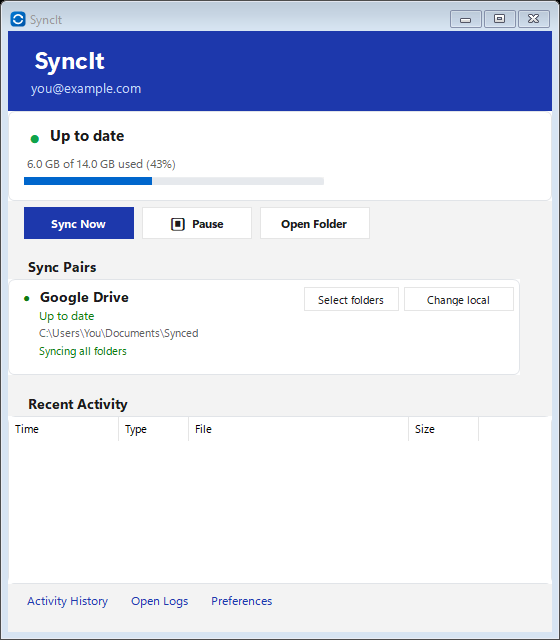
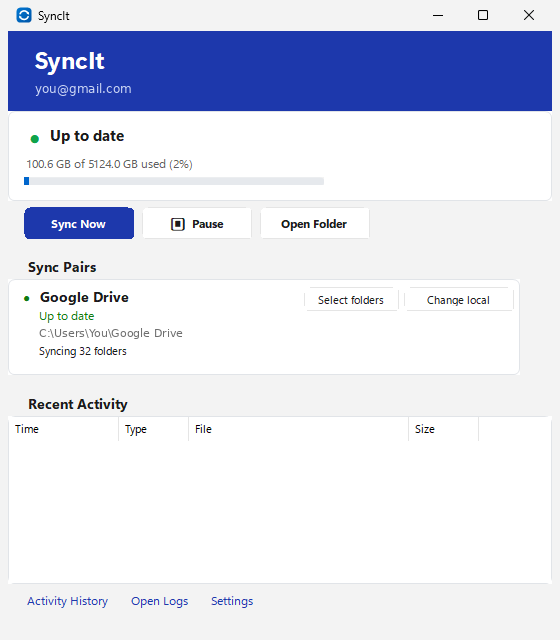
docs: fresh light-mode screenshots (dashboard, tray, Settings tabs, add-folder picker, sign-in)

Changed region(s): [[0.0, 0.0, 1.0, 1.0], [0.0607, 0.5, 0.3643, 0.5625], [0.0607, 0.125, 0.2429, 0.1562]]

diff --git a/README.md b/README.md
@@ -4,18 +4,21 @@ A lightweight, bidirectional Google Drive sync tool for Windows. Keep a local fo
 
 <p align="center"><img src="docs/images/app-icon.png" width="96" alt="SyncIt icon"></p>
 
-| Light | Dark |
+| Dashboard | Tray menu |
 |---|---|
-| ![Dashboard](docs/images/dashboard-light.png) | ![Dashboard dark](docs/images/dashboard-dark.png) |
-| ![Tray menu](docs/images/tray-menu-light.png) | ![Tray menu dark](docs/images/tray-menu-dark.png) |
+| ![Dashboard](docs/images/dashboard-light.png) | ![Tray menu](docs/images/tray-menu-light.png) |
 
-| Settings → Accounts (several accounts at once) | Settings → Folders |
+| Settings → Accounts (several accounts at once) | Settings → Folders (filters, conflict rule, pause) |
 |---|---|
 | ![Settings accounts](docs/images/settings-accounts-light.png) | ![Settings folders](docs/images/settings-folders-light.png) |
+| **Settings → Appearance** | **Settings → Updates** |
+| ![Settings appearance](docs/images/settings-appearance-light.png) | ![Settings updates](docs/images/settings-updates-light.png) |
+| **Settings → General (startup, bandwidth)** | **Add folder → account and drive** |
+| ![Settings general](docs/images/settings-general-light.png) | ![Add folder location](docs/images/add-folder-location-light.png) |
 
-Add folder → pick the account and My Drive or a shared drive:
-
-![Add folder location](docs/images/add-folder-location-light.png)
+| Sign-in |
+|---|
+| ![Sign in](docs/images/sign-in-light.png) |
 
 ## Features
 
